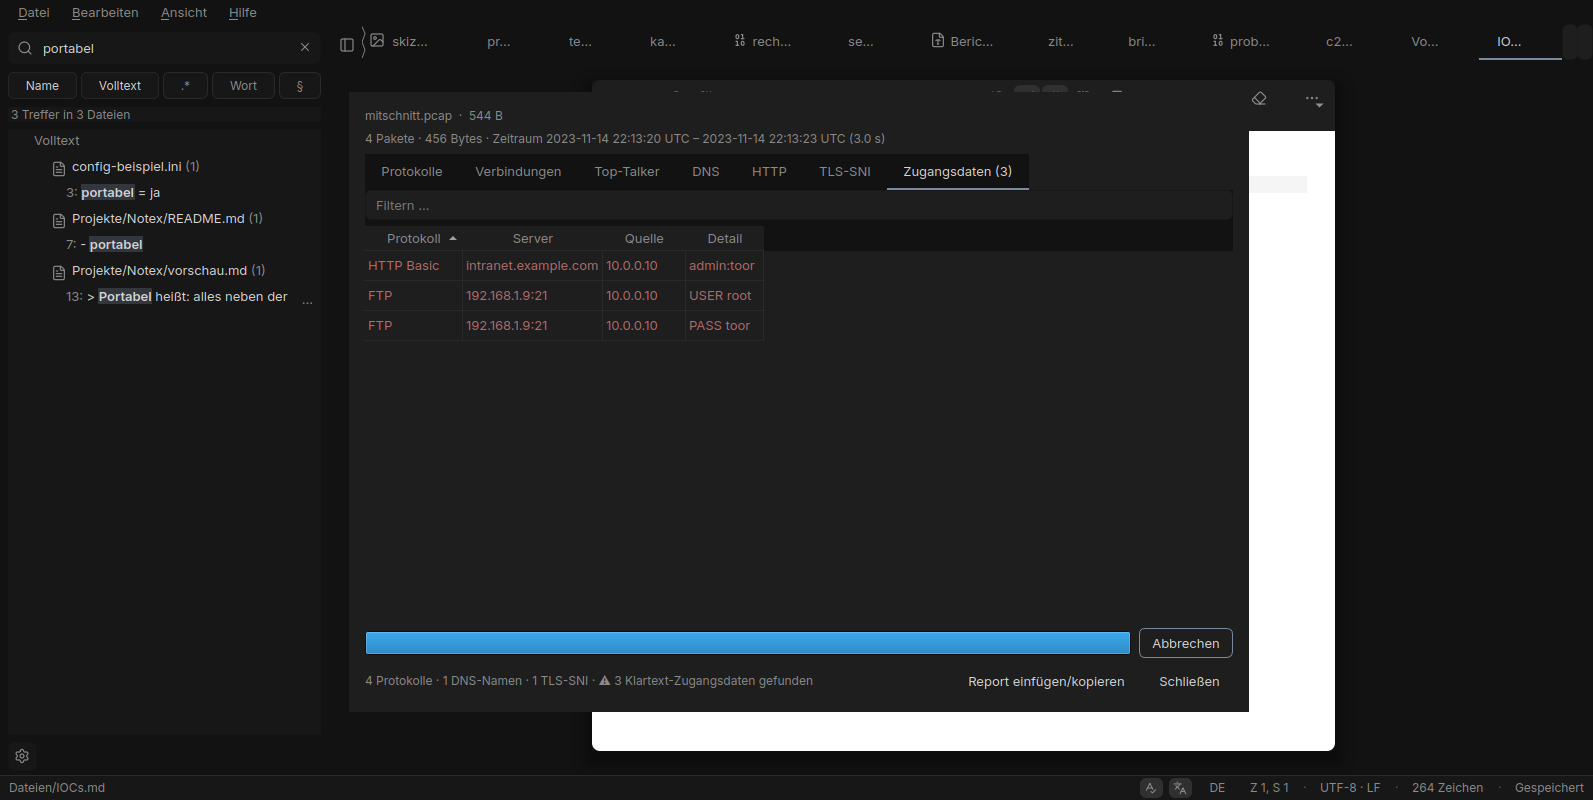
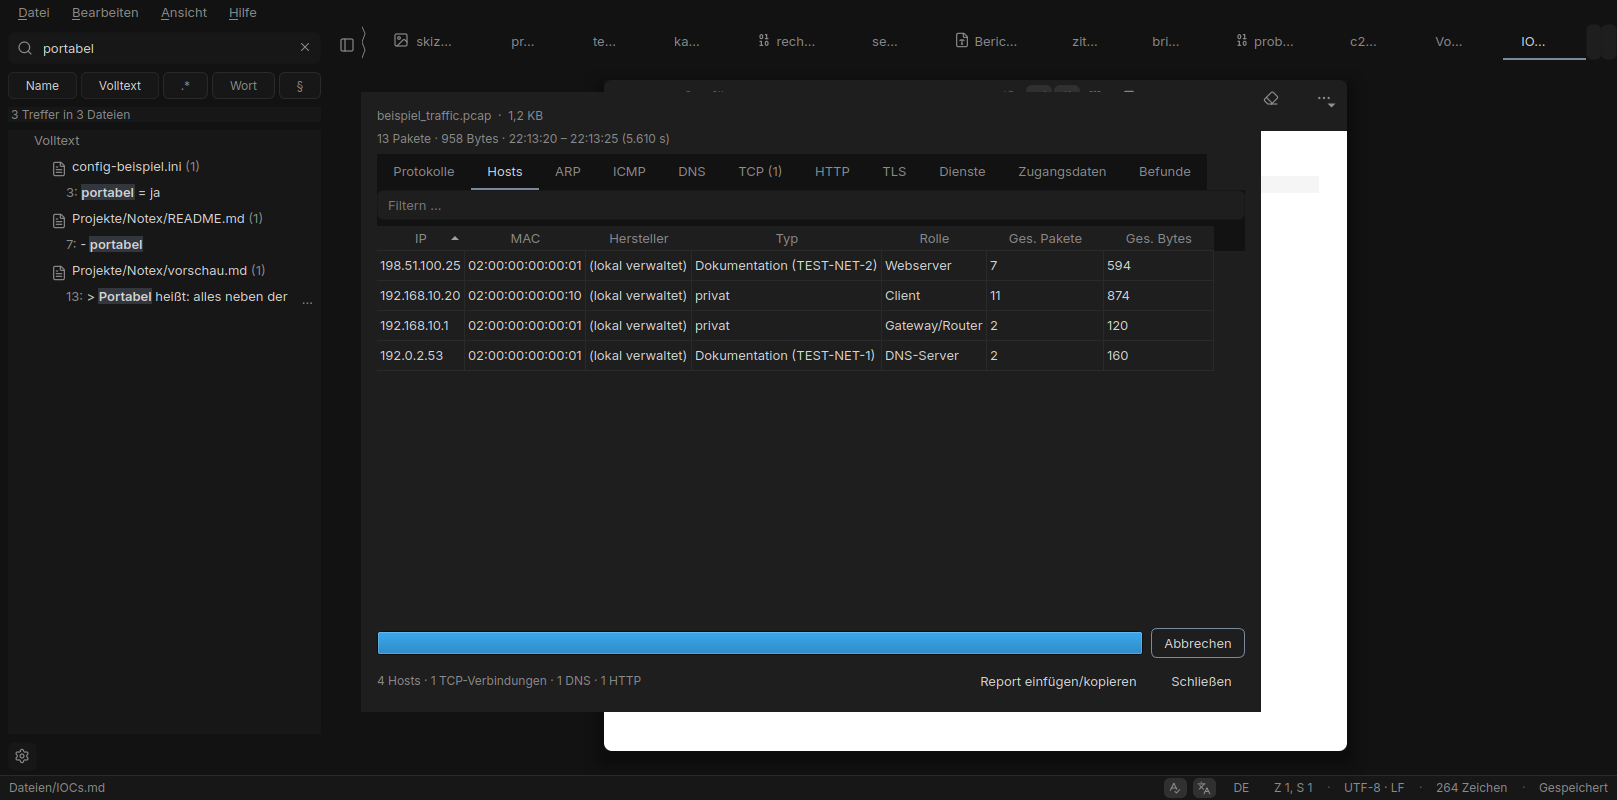
v1.12.1: Block L (Fehlerbehebung) abgeschlossen – Version, CHANGELOG/PROGRESS, Screenshot 63
Claude-Session: https://claude.ai/code/session_01GLUSNnjoUSEA3uzyGFPUqk

diff --git a/tools/screenshot.py b/tools/screenshot.py
@@ -828,21 +828,17 @@ def main() -> int:
                 later_rel(1200, grab)
 
             def pcap_shot():
-                from test_pcapinfo import eth, tcp, udp, dns_query, client_hello, write_pcap
+                import shutil as _shutil
                 from notex.ui.pcap_dialog import PcapDialog
-                http = (b"GET /admin HTTP/1.1\r\nHost: intranet.example.com\r\nUser-Agent: Mozilla/5.0\r\n"
-                        b"Authorization: Basic YWRtaW46dG9vcg==\r\n\r\n")
-                pkts = [eth("10.0.0.10", "8.8.8.8", udp(50000, 53, dns_query("intranet.example.com"))),
-                        eth("10.0.0.10", "93.184.216.34", tcp(50001, 80, http)),
-                        eth("10.0.0.10", "1.1.1.1", tcp(50002, 443, client_hello("bank.example.com"))),
-                        eth("10.0.0.10", "192.168.1.9", tcp(50003, 21, b"USER root\r\nPASS toor\r\n"))]
-                write_pcap(files / "mitschnitt.pcap", pkts)
+                fixture = ROOT / "tests" / "fixtures" / "beispiel_traffic.pcap"
+                _shutil.copyfile(fixture, files / "beispiel_traffic.pcap")
                 window.modules.set_enabled("pcap", True)
-                dialog = PcapDialog(window, files / "mitschnitt.pcap")
+                dialog = PcapDialog(window, files / "beispiel_traffic.pcap")
                 dialog.show()
                 dialog.move(window.geometry().center() - dialog.rect().center())
 
                 def grab():
+                    dialog.tabs.setCurrentWidget(dialog.t_hosts)
                     compose(window, dialog, "63-pcap", window.mapFromGlobal(dialog.geometry().topLeft()))
                     dialog.close()
                     finish()

diff --git a/notex/__init__.py b/notex/__init__.py
@@ -1,6 +1,6 @@
 """Notex – portabler Explorer + Editor für Textdateien."""
 
-__version__ = "1.12.0"
+__version__ = "1.12.1"
 APP_NAME = "Notex"
 APP_ID = "Notex.Notex"          # AppUserModelID: Taskleisten-Gruppierung und Icon unter Windows
 PROG_ID = "Notex.TextFile"      # ProgID für die Dateizuordnung

diff --git a/PROGRESS.md b/PROGRESS.md
@@ -36,6 +36,7 @@ davon wird gelöscht; der Besitzer entscheidet, wie damit umgegangen wird (siehe
 | 1.10.0 | Block I: Port-Infos, IP-Konflikte, RDAP/ASN | fertig, Tests grün, lokal getaggt, kein Release |
 | 1.11.0 | Block J: Netzwerk-Scanner | fertig, Tests grün, lokal getaggt, kein Release |
 | 1.12.0 | Block K: Log-Auswertung, PCAP | fertig, Tests grün, lokal getaggt, kein Release |
+| 1.12.1 | Block L: Fehlerbehebung (Scanner, Encoding-Menü, JPEG-Metadaten, PCAP-Auswertung) | fertig, Tests grün, lokal getaggt |
 
 ## Erledigt
 
@@ -333,6 +334,22 @@ davon wird gelöscht; der Besitzer entscheidet, wie damit umgegangen wird (siehe
 - Screenshots 62–63 (Log-Auswertung, PCAP-Übersicht).
 - Build-Größe nach K (Build-Check-Artefakte, commit c8b5445): Windows ≈ 104,3 MB, Linux ≈ 101,8 MB (vorher nach H ≈ 99,9 / 96,7 MB; + evtx-Rust-Wheel und dpkt). CI Tests + Build-Check grün auf Win+Linux.
 - Fix: dpkt fehlte zunächst in requirements.txt (nur in build.py/CI/Lizenzen) → Build-Check rot; mit c8b5445 ergänzt, danach grün.
+### 1.12.1 – Block L (Fehlerbehebung)
+- L1 Scanner-Hang: `_reverse_dns` → `run_in_executor` mit `resolve_timeout` (Std. 2 s) + Sitzungs-Cache; gemeinsamer
+  `_close_writer` schließt Verbindungen immer mit Timeout (auch in `_discover`); `scan_host` prüft `cancelled` je Probe.
+  Tests: langsamer Resolver (parallel, < 4 s statt 6 s seriell), nie zurückkehrender Resolver/Writer, Abbruch mitten
+  in den Probes.
+- L2 Encoding-Menü: `EditorToolbar` – Überlaufmenü wird lazy in `aboutToShow` gebaut (`_build_overflow_menu`),
+  `_relayout` merkt nur die versteckten Gruppen und wird über `QTimer.singleShot(0)` entkoppelt; Encoding-/EOL-
+  Optionen als Datenkonstanten → jedes Menü baut eigene QActions (keine geteilten mehr). Regressionstest.
+- L3 Metadaten JPEG: `read()` liefert immer Datei/Format/Größe; `_read_jpeg` parst SOF (Maße, Verfahren, Komponenten),
+  JFIF, ICC (mit Beschreibung), Adobe, DQT→geschätzte Qualität, Vorschaubild, Segmentliste; „Keine EXIF/XMP/IPTC“-
+  Hinweis, generisch auch für PNG/WebP/PDF/Office. Tests: ohne EXIF, progressiv, mit ICC, .JPG-Großschreibung.
+- L4 PCAP neu: `core/pcapinfo.py` komplett überarbeitet (Protokoll-Hierarchie, Hosts/Rollen, ARP+Spoofing-Befund,
+  ICMP-Echo-RTT, DNS-Paarung, TCP-Status/Bytes/Retransmissions + `stream()`, HTTP req+resp, TLS, Dienste, Befunde).
+  **Fixture selbst erzeugt** (`tools/make_fixture_pcap.py` → `tests/fixtures/beispiel_traffic.pcap`, 13 Pakete/958 B),
+  Sollwerte per Test festgeschrieben. `ui/pcap_dialog.py` mit Reitern und „Stream folgen“ (Text/Hex).
+- Screenshot 63 (PCAP) auf die neue Auswertung aktualisiert.
 
 ## Offen
 

diff --git a/CHANGELOG.md b/CHANGELOG.md
@@ -2,6 +2,22 @@
 
 Alle nennenswerten Änderungen an Notex. Format angelehnt an [Keep a Changelog](https://keepachangelog.com/de/).
 
+## [1.12.1] – 2026-09-27
+
+### Behoben
+- Netzwerk-Scanner blieb nach dem ersten Host hängen: Reverse-DNS läuft jetzt mit Timeout in einem Thread (blockiert
+  den Event-Loop nie) und wird zwischengespeichert; Verbindungen werden immer mit Timeout geschlossen (Windows/
+  Proactor); Abbruch greift auch während laufender Port-Probes
+- Encoding-Umstellung machte den Menüpunkt kaputt (Windows): Überlaufmenü der Bearbeitungsleiste wird lazy in
+  aboutToShow gebaut, Relayout verzögert, keine zwischen Menüs geteilten QActions mehr
+- Metadaten-Fenster war bei JPEGs ohne EXIF leer: es zeigt jetzt immer Dateigröße, Format, Bildmaße (SOF),
+  Farbkomponenten, Verfahren (Baseline/Progressiv), JFIF, ICC-Profil, geschätzte Qualität, Vorschaubild-Status und
+  die Segmentliste; fehlen EXIF/XMP/IPTC (bzw. Dokumenteigenschaften), steht das ausdrücklich als Hinweis darin
+- PCAP-Auswertung überarbeitet: Protokoll-Hierarchie (Ethernet › ARP/IPv4 › ICMP/UDP/TCP › DNS/HTTP/TLS mit Paketen
+  und Bytes je Ebene), Hosts mit MAC/Adresstyp/Rolle, ARP (inkl. Spoofing- und Gratuitous-Hinweis), ICMP mit
+  Echo-Paarung und RTT, DNS mit Anfrage/Antwort-Paarung, TCP-Verbindungen mit Status/Bytes je Richtung und
+  „Stream folgen“ (Text/Hex), HTTP mit Anfrage+Antwort, TLS-SNI/Version, Dienste, Befunde
+
 ## [1.12.0] – 2026-09-27
 
 ### Hinzugefügt
